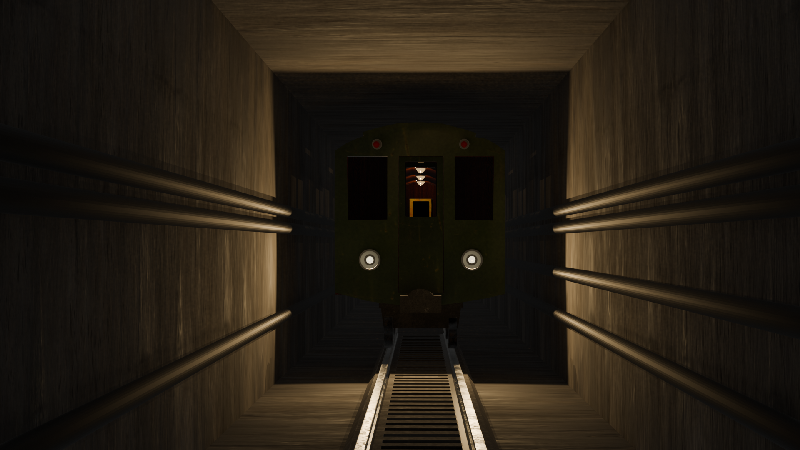
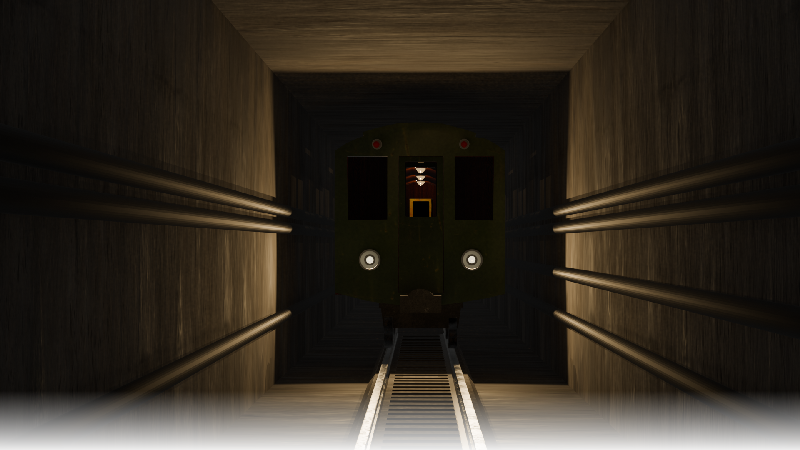
Fix Basalt-Remix theme

Changed region(s): [[0.0, 0.8711, 1.0, 1.0]]

diff --git a/static/css/Basalt-Remix/core.css b/static/css/Basalt-Remix/core.css
@@ -118,30 +118,27 @@
     --edit-area-toolbar-icon-size: 1.75rem;
     --edit-area-main-bg-color: var(--basalt-background-color);
     --edit-area-ancillary-bg-color: var(--basalt-secondary-color);
-    background-color: rgb(var(--basalt-background-color));
-    background-image: url('./background_image.png');
-    background-repeat: no-repeat;
-    background-size: 100%;
-}
-
-html, body {
-    padding: 0%;
-    margin: 0;
-}
-
-html {
-    height: 100%;
 }
 
 body {
-    backdrop-filter: blur(8px);
-    background: #40404040;
     color: rgb(var(--basalt-main-text-color));
+    background-color: rgb(var(--basalt-background-color));
     font-family: var(--body-font);
     font-size: var(--true-font-size);
 }
 
 body, li, p { line-height: 1.5; }
+
+#content-wrap {
+    background-image: url('./background_image.png');
+    background-repeat: no-repeat;
+    background-size: 100%;
+}
+
+#main-content {
+    backdrop-filter: blur(8px);
+    background: #40404040;
+}
 
 h1,h2,h3,h4,h5,h6 {
     font-weight: bold;
@@ -347,7 +344,10 @@ input[type="text"]:focus-visible {
     display: flex;
     grid-area: top-bar;
 }
-#top-bar div.mobile-top-bar > ul { display: none; }
+
+#top-bar div.mobile-top-bar > ul {
+	display: none;
+}
 
 #top-bar div.mobile-top-bar > .open-menu {
     grid-area: open-menu;
@@ -891,6 +891,11 @@ div#account-options > ul > li > a:is(:hover, :focus)::before,
 #side-bar > * { direction: ltr; }
 #side-bar a.close-menu, #side-bar:target a.close-menu {
     display: none;
+}
+
+#side-bar > ul
+{
+    list-style-type: none;
 }
 
 /*-----------------*/

diff --git a/layout/page.html b/layout/page.html
@@ -14,7 +14,7 @@
         var styles = document.createElement('link');
         styles.type="text/css";
         styles.rel="stylesheet";
-        if (style !== undefined && typeof style == "string") {
+        if (style !== undefined && typeof style == "string" && style != String.fromCharCode(0x007B, 0x007B) + " style "+ String.fromCharCode(0x007D, 0x007D) ) {
             styles.href = style;
         } else {
             styles.href = "./css/basalt/basalt-bedrock.css";
@@ -34,7 +34,7 @@
             <div id="container-wrap">
                 <div id="container">
                     <div id="header">
-                        <h1><a href="/"><span>{{ subtitle }}</span></a></h1>
+                        <h1><a><span>{{ subtitle }}</span></a></h1>
                         <h2><span></span></h2>
                     </div>
                     <div id="content-wrap">

diff --git a/layout/list.html b/layout/list.html
@@ -14,7 +14,7 @@
         var styles = document.createElement('link');
         styles.type="text/css";
         styles.rel="stylesheet";
-        if (style !== "{{ style }}") {
+        if (style !== undefined && typeof style == "string" && style != String.fromCharCode(0x007B, 0x007B) + " style "+ String.fromCharCode(0x007D, 0x007D) ) {
             styles.href = style;
         } else {
             styles.href = "./css/basalt/basalt-bedrock.css";
@@ -34,7 +34,7 @@
             <div id="container-wrap">
                 <div id="container">
                     <div id="header">
-                        <h1><a href="/"><span>{{ subtitle }}</span></a></h1>
+                        <h1><a><span>{{ subtitle }}</span></a></h1>
                         <h2><span></span></h2>
                     </div>
                     <div id="content-wrap">

diff --git a/content/about.html b/content/about.html
@@ -1,4 +1,5 @@
 <!-- title: About -->
+<!-- style: ./css/Basalt-Remix/core.css -->
 <h1>About</h1>
 <p>
 Quisque quam nisl, egestas nec convallis vitae, fringilla nec mauris.
